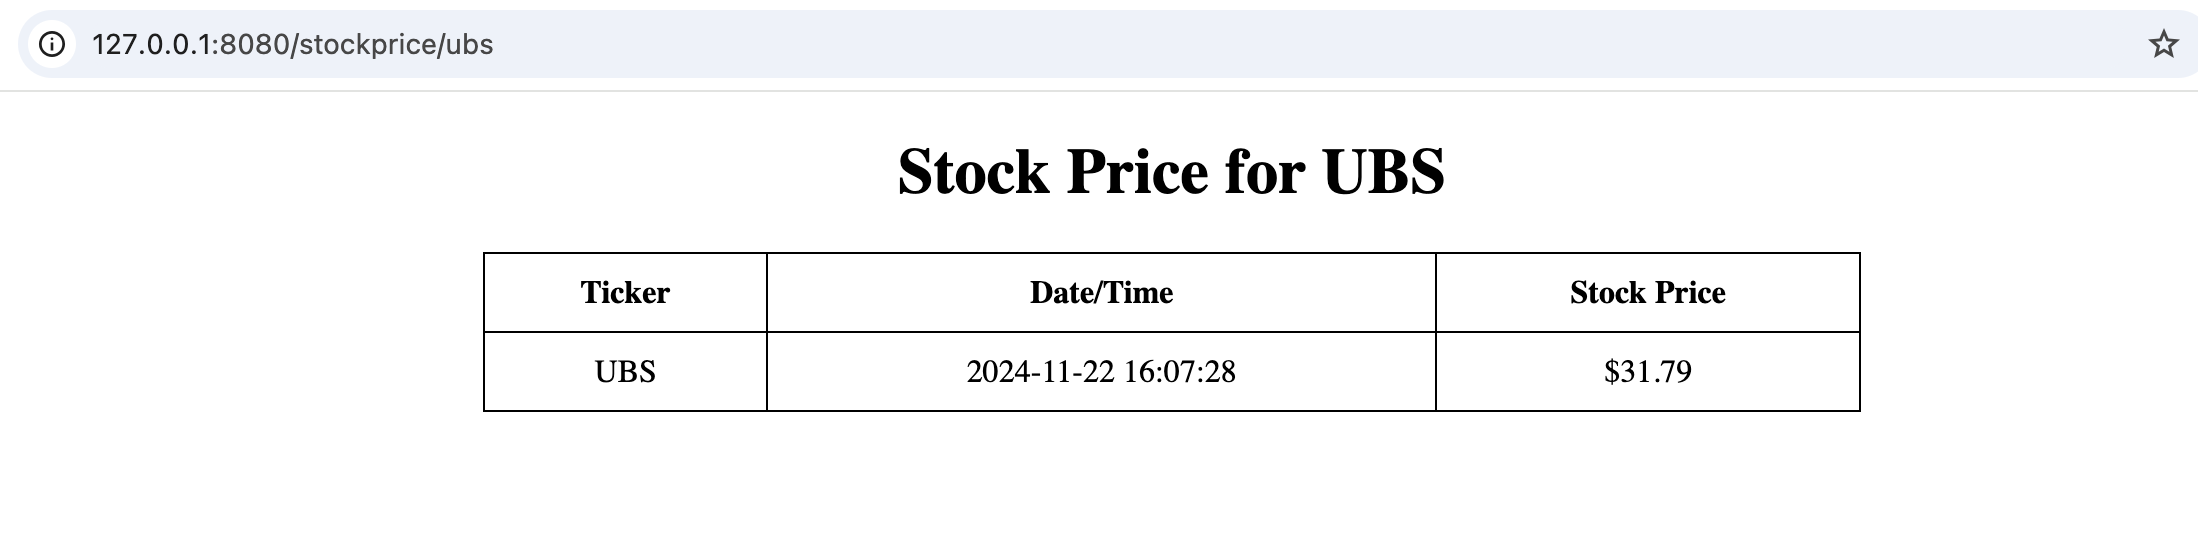
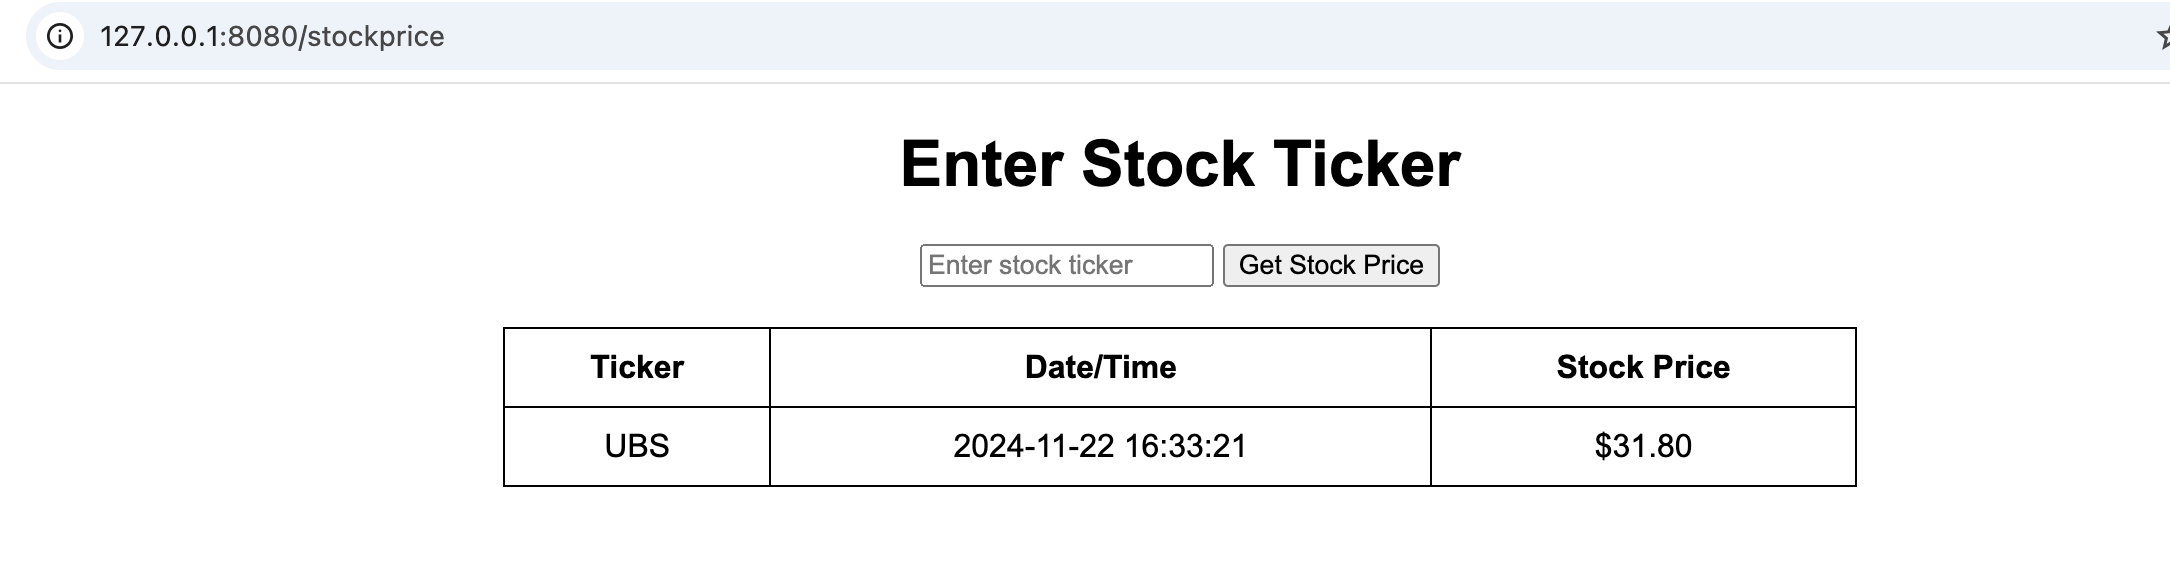
update stock page

diff --git a/main.py b/main.py
@@ -1,4 +1,4 @@
-from flask import Flask, jsonify
+from flask import Flask, request, render_template_string
 import pandas as pd
 from mylib.extract import get_current_price
 
@@ -42,66 +42,93 @@ def show_data():
     return combined_html
 
 
-@app.route("/stockprice/<ticker>", methods=["GET"])
-def stock_price(ticker):
+@app.route("/stockprice", methods=["GET", "POST"])
+def stock_price_form():
     """
-    Get the current stock price for a given ticker and return as an HTML table.
-
-    URL format: /stockprice/<ticker>
-    Example: /stockprice/UBS
+    Displays a form to enter a stock ticker and shows the stock price information if submitted.
     """
-    # Fetch the stock price information
-    ticker = ticker.upper()
-    dist = get_current_price(ticker)
+    # Initialize the table as empty
+    table_html = ""
 
-    if not dist:
-        return f"<h1>Data for ticker '{ticker}' is not available.</h1>", 404
+    if request.method == "POST":
+        # Get the ticker from the form and convert to uppercase
+        ticker = request.form.get("ticker").upper()
 
-    # Create an HTML table dynamically
-    html = f"""
-    <!DOCTYPE html>
-    <html lang="en">
-    <head>
-        <meta charset="UTF-8">
-        <meta name="viewport" content="width=device-width, initial-scale=1.0">
-        <title>Stock Price for {dist['ticker']}</title>
-        <style>
-            table {{
-                width: 50%;
-                margin: 20px auto;
-                border-collapse: collapse;
-            }}
-            table, th, td {{
-                border: 1px solid black;
-            }}
-            th, td {{
-                padding: 10px;
-                text-align: center;
-            }}
-            h1 {{
-                text-align: center;
-            }}
-        </style>
-    </head>
-    <body>
-        <h1>Stock Price for {dist['ticker']}</h1>
-        <table>
-            <tr>
-                <th>Ticker</th>
-                <th>Date/Time</th>
-                <th>Stock Price</th>
-            </tr>
-            <tr>
-                <td>{dist['ticker']}</td>
-                <td>{dist['date_time']}</td>
-                <td>${dist['price']:.2f}</td>
-            </tr>
-        </table>
-    </body>
-    </html>
-    """
-    return html
+        # Fetch stock price data
+        dist = get_current_price(ticker)
+
+        if dist:
+            # Generate the table HTML if data is found
+            table_html = f"""
+            <table>
+                <tr>
+                    <th>Ticker</th>
+                    <th>Date/Time</th>
+                    <th>Stock Price</th>
+                </tr>
+                <tr>
+                    <td>{dist['ticker']}</td>
+                    <td>{dist['date_time']}</td>
+                    <td>${dist['price']:.2f}</td>
+                </tr>
+            </table>
+            """
+        else:
+            # Show an error message if the ticker is invalid
+            table_html = f"<h2>Data for ticker '{ticker}' is not available.</h2>"
+
+    # Render the final HTML with the form and table (if available)
+    return render_template_string(BASE_HTML, table=table_html)
     
+BASE_HTML = """
+<!DOCTYPE html>
+<html lang="en">
+<head>
+    <meta charset="UTF-8">
+    <meta name="viewport" content="width=device-width, initial-scale=1.0">
+    <title>Stock Price Lookup</title>
+    <style>
+        body {
+            font-family: Arial, sans-serif;
+            margin: 20px;
+            text-align: center;
+        }
+        form {
+            margin-bottom: 20px;
+        }
+        table {
+            width: 50%;
+            margin: 20px auto;
+            border-collapse: collapse;
+        }
+        table, th, td {
+            border: 1px solid black;
+        }
+        th, td {
+            padding: 10px;
+            text-align: center;
+        }
+        h1 {
+            text-align: center;
+        }
+    </style>
+</head>
+<body>
+    <h1>Enter Stock Ticker</h1>
+    <form method="POST">
+        <input type="text" name="ticker" placeholder="Enter stock ticker" required>
+        <button type="submit">Get Stock Price</button>
+    </form>
+    <div>
+        {% if table %}
+            {{ table|safe }}
+        {% endif %}
+    </div>
+</body>
+</html>
+"""
+
+
 
 # if __name__ == "__main__":
 #     app.run(debug=True)

diff --git a/README.md b/README.md
@@ -8,11 +8,14 @@ docker login -u cynthiashiyue
 ![Image](image/image2.png)
 ![Image](image/image3.png)
 
-## Grad data ##
-http://127.0.0.1:8080/graddata
+## page ##
+* Home: http://localhost:8080/
+
+* Grad Data: http://localhost:8080/graddata  
+             http://127.0.0.1:8080/graddata
 ![Image](image/web1.png)
 
-## Stock Price data ##
+* Stock Price: http://localhost:8080/stockprice
 Can change the ticker name to get different stock price
-http://localhost:8080/stockprice/UBS
 ![Image](image/web2.png)
+
